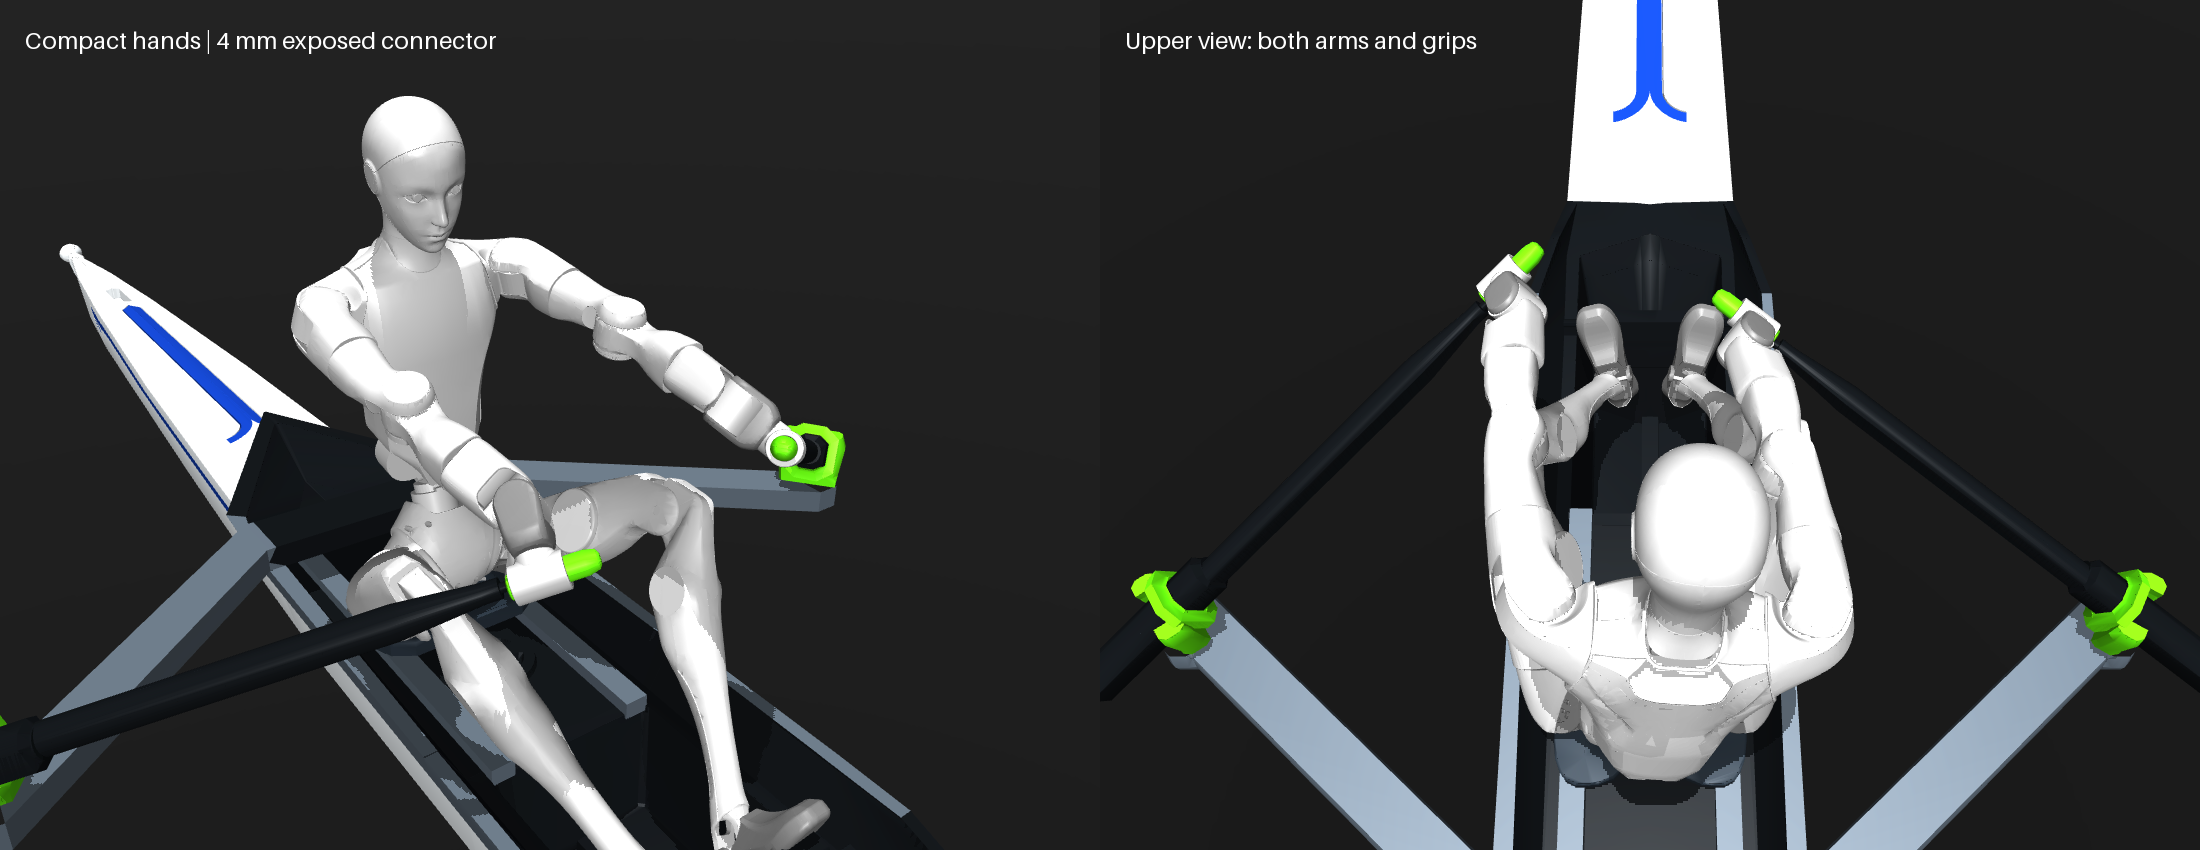
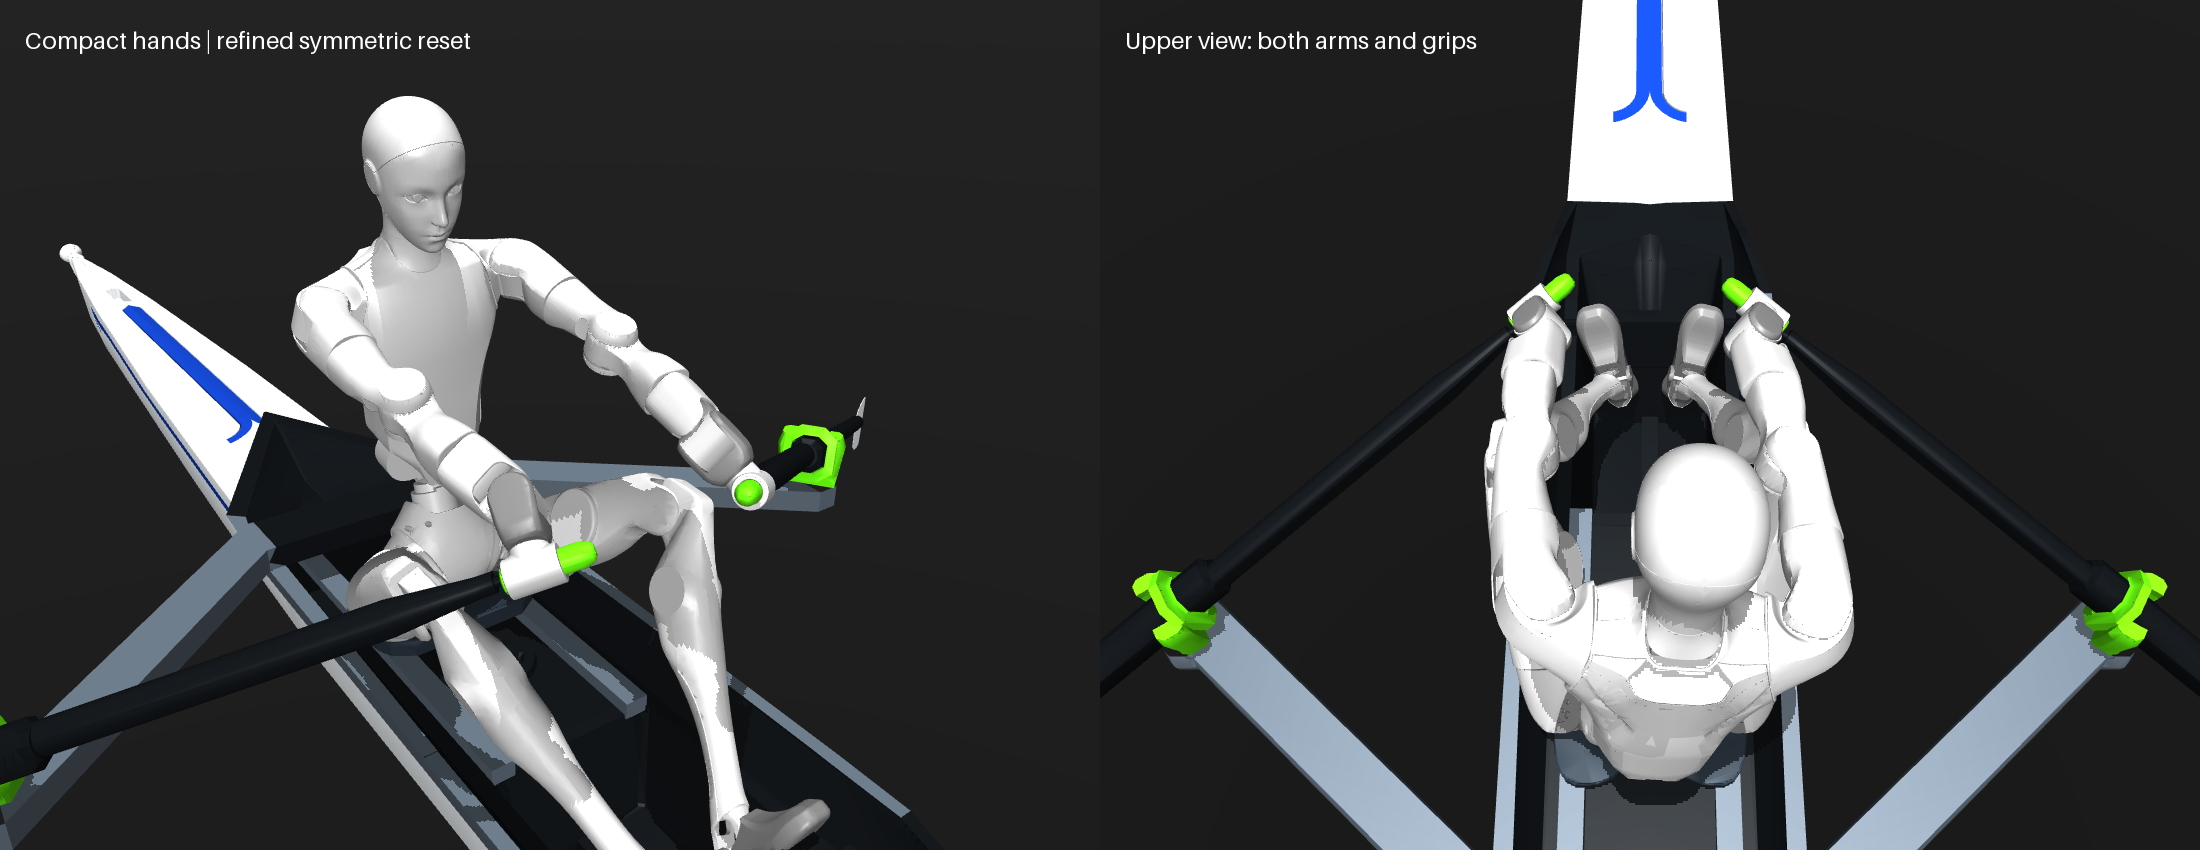
Start reference in drive, balance reset pose and extend PPO episodes

diff --git a/tests/test_rowing_mjlab.py b/tests/test_rowing_mjlab.py
@@ -30,6 +30,34 @@ def test_reference_start_and_complete_half_speed_cycle():
     torch.testing.assert_close(ref(torch.tensor([0.])),ref(torch.tensor([1.])))
 
 
+def test_reference_shared_drive_start_uses_only_sweep_and_is_wet():
+    import json
+    import trimesh
+    from rowing_mjlab.reference import DRIVE_START_PHASE
+    from hydrodynamics.models import wet_triangles,triangle_geometry
+    ref=OarReference('cpu')
+    m=mujoco.MjModel.from_xml_path(str(ROOT/'scene.xml'));d=mujoco.MjData(m)
+    names=[s+'_'+j for s in ('port','starboard') for j in ('sweep','elevation','feather')]
+    qa=[m.joint(n).qposadr[0] for n in names]
+    q=torch.tensor(m.qpos0[qa],dtype=torch.float32)
+    phase=ref.nearest(q)
+    assert DRIVE_START_PHASE[0]<=phase<=DRIVE_START_PHASE[1]
+    changed=q.clone();changed[[1,2,4,5]]+=10
+    torch.testing.assert_close(ref.nearest(changed),phase,rtol=0,atol=0)
+    grid=torch.arange(4096)/4096
+    valid=grid[(grid>=DRIVE_START_PHASE[0])&(grid<=DRIVE_START_PHASE[1])]
+    cost=(ref(valid)[:,[0,3]]-q[[0,3]]).square().mean(-1)
+    torch.testing.assert_close(phase,valid[cost.argmin()])
+    water=json.loads((ROOT/'data/rowing_reference_provenance.json').read_text())['water_level_m_at_repository_reset']
+    meshes=[trimesh.load_mesh(ROOT/f'boat_meshes/{s}_blade_3mm.stl') for s in ('port','starboard')]
+    for p in [float(phase),*np.linspace(*DRIVE_START_PHASE,31)]:
+        d.qpos[qa]=ref(torch.tensor(p)).numpy();mujoco.mj_kinematics(m,d)
+        for side,mesh in zip(('port','starboard'),meshes):
+            b=m.body(side+'_oar').id;tri=mesh.triangles@d.xmat[b].reshape(3,3).T+d.xpos[b]
+            fraction=triangle_geometry(wet_triangles(tri,water))[0].sum()/mesh.area
+            assert fraction>.70
+
+
 @pytest.fixture(scope='module')
 def hydro_comparison():
     m = mujoco.MjModel.from_xml_path(str(ROOT/'scene.xml'))
@@ -168,7 +196,8 @@ def test_mjlab_reset_head_constraints_termination_and_privileged_layout():
         torch.testing.assert_close(mdp.privileged(env),before)
         env.sim.data.qpos[0,3:7]=torch.tensor([np.cos(np.deg2rad(61)/2),np.sin(np.deg2rad(61)/2),0,0])
         assert mdp.capsized(env).tolist()==[True,False]
-        env.episode_length_buf[:]=1499
+        assert env.max_episode_length==2000
+        env.episode_length_buf[:]=env.max_episode_length-1
         env.step(torch.zeros(2,29))
         assert env.reset_time_outs.all()
         obs,_=env.reset(env_ids=torch.tensor([0]))
@@ -199,3 +228,8 @@ def test_compact_hand_pose_closure_axes_and_grip_placement():
             assert .23<m.body_mass[bid]<.25
             assert mujoco.mj_name2id(m,mujoco.mjtObj.mjOBJ_BODY,h+'_dex1_finger_link_1')==-1
         np.testing.assert_allclose(locations[0],locations[1],atol=1e-9)
+        q={n:np.rad2deg(m.qpos0[m.joint(n).qposadr[0]]) for n in
+           ('port_sweep','starboard_sweep','port_elevation','starboard_elevation','port_feather','starboard_feather')}
+        assert abs(q['port_sweep']+q['starboard_sweep'])<.7
+        assert abs(q['port_elevation']+q['starboard_elevation'])<.2
+        assert abs(q['port_feather']-q['starboard_feather'])<.1

diff --git a/tools/fit_compact_hand.py b/tools/fit_compact_hand.py
@@ -81,6 +81,14 @@ def solve(root):
         # Stay on the slightly flexed side of maximal extension; no large fold.
         lo[idx]=opt.x;hi[idx]=min(hi[idx],opt.x+np.deg2rad(5))
     x0=np.clip(x0,lo+1e-8,hi-1e-8)
+    previous=m.qpos0[qa].copy()
+    # This refinement is local: no arm or oar joint moves more than five degrees.
+    lo[:-1]=np.maximum(lo[:-1],previous-np.deg2rad(5))
+    hi[:-1]=np.minimum(hi[:-1],previous+np.deg2rad(5))
+    x0=np.clip(x0,lo+1e-8,hi-1e-8)
+    def asymmetry(x):
+        # Opposing hinge signs for sweep/elevation; equal feather coordinates.
+        return np.array([x[14]+x[17],x[15]+x[18],x[16]-x[19]])
     def constraints(x):
         forward(x);eq=[];axes=[];wrists=[]
         for b in bdata:
@@ -96,7 +104,9 @@ def solve(root):
     def objective(x):
         _,_,w=constraints(x)
         elbows=np.array([x[names.index(b['h']+'_elbow_joint')]-t for b,t in zip(bdata,targets)])
-        return float(10*w@w+20*elbows@elbows+.004*np.sum((x[:-1]-x0[:-1])**2)+.5*(x[-1]-.785)**2)
+        symmetry=asymmetry(x)
+        return float(10*w@w+20*elbows@elbows+200*symmetry@symmetry+
+                     np.sum((x[:-1]-previous)**2)+.5*(x[-1]-.785)**2)
     def residual(x):
         eq,ax,w=constraints(x)
         return np.r_[eq*100,np.minimum(ax,0)*300,w*2,(x[:-1]-x0[:-1])*.01]
@@ -118,6 +128,9 @@ def solve(root):
     forward(best.x)
     report=dict(grip_distance_from_oar_origin_m=float(best.x[-1]),objective=float(best.fun),
                 joint_angles_deg=dict(zip(names,np.rad2deg(best.x[:-1]).tolist())),hands={})
+    report['bilateral_mirror_error_before_deg']=np.rad2deg(asymmetry(previous)).tolist()
+    report['bilateral_mirror_error_after_deg']=np.rad2deg(asymmetry(best.x)).tolist()
+    report['max_joint_adjustment_deg']=float(np.rad2deg(abs(best.x[:-1]-previous)).max())
     for b,t in zip(bdata,targets):
         rh=d.xmat[b['hand']].reshape(3,3);ro=d.xmat[b['oar']].reshape(3,3)
         center=d.xpos[b['hand']]+rh@np.array([.029,0,0]);target=d.xpos[b['oar']]+ro@np.array([0,b['sign']*best.x[-1],0])

diff --git a/rowing_mjlab/config.py b/rowing_mjlab/config.py
@@ -16,7 +16,7 @@ from .networks import SEQUENCE_LENGTH
 
 def env_cfg(num_envs=2048,play=False):
     return ManagerBasedRlEnvCfg(
-        decimation=10, episode_length_s=30.0,
+        decimation=10, episode_length_s=40.0,
         scene=SceneCfg(num_envs=num_envs,env_spacing=0.0,entities={'rowing':entity_cfg()},
             sensors=(ContactSensorCfg(name='forbidden_contact',
                 primary=ContactMatch(mode='geom',pattern='h2_collision_.*',entity='rowing'),
@@ -60,6 +60,7 @@ def env_cfg(num_envs=2048,play=False):
 
 def rl_cfg(num_envs=2048):
     from mjlab.rl import RslRlModelCfg, RslRlOnPolicyRunnerCfg, RslRlPpoAlgorithmCfg
+    rollout_steps = 32  # 0.64 s at 50 Hz; 2000/32 = 62.5 rollout blocks per episode.
     model = dict(class_name='rowing_mjlab.networks:TemporalModel',hidden_dims=(512,256,128),
                  activation='elu',obs_normalization=True)
     return RslRlOnPolicyRunnerCfg(
@@ -67,11 +68,11 @@ def rl_cfg(num_envs=2048):
                            'init_std':0.3,'std_type':'scalar'}),
         critic=RslRlModelCfg(**model),
         algorithm=RslRlPpoAlgorithmCfg(class_name='rowing_mjlab.storage:HistoryPPO',
-            num_learning_epochs=4,num_mini_batches=max(1,num_envs*24//512),
+            num_learning_epochs=4,num_mini_batches=max(1,num_envs*rollout_steps//512),
             learning_rate=3e-4,schedule='adaptive',gamma=0.99,lam=0.95,
             entropy_coef=0.005,desired_kl=0.01,max_grad_norm=1.0,
             value_loss_coef=1.0,use_clipped_value_loss=True,clip_param=0.2),
-        experiment_name='h2_rowing_imitation',num_steps_per_env=24,
+        experiment_name='h2_rowing_imitation',num_steps_per_env=rollout_steps,
         max_iterations=10000,save_interval=100,
         obs_groups={'actor':['actor'],'critic':['actor','privileged']},
         logger='tensorboard',clip_actions=1.0,

diff --git a/rowing_mjlab/reference.py b/rowing_mjlab/reference.py
@@ -6,6 +6,10 @@ from hydrodynamics.models import ROOT
 
 PERIOD = 60.0/26.0
 SIGMA_DEG = (10,4,15,10,4,15)
+# Interior of the digitized drive, excluding catch/extraction transitions.
+# Verified at the repository waterline: both blades >70% wetted surface area
+# over this interval; sweep advances and the blade remains approximately square.
+DRIVE_START_PHASE = (0.05, 0.35)
 
 
 class OarReference:
@@ -28,9 +32,12 @@ class OarReference:
         return ((c[0]*delta+c[1])*delta+c[2])*delta+c[3]
 
     def nearest(self, angles):
-        # Exact saved pose is common across all worlds; compute once at startup.
+        """One shared bilateral phase, nearest in sweep only, inside drive."""
         grid = torch.arange(4096,device=angles.device,dtype=torch.float32)/4096
-        cost = ((self(grid)-angles)/self.sigma).square().mean(-1)
+        sweep = torch.tensor([0,3],device=angles.device)
+        cost = (self(grid).index_select(-1,sweep)-angles.index_select(-1,sweep)).square().mean(-1)
+        valid = (grid >= DRIVE_START_PHASE[0]) & (grid <= DRIVE_START_PHASE[1])
+        cost = cost.masked_fill(~valid,float('inf'))
         return grid[cost.argmin()]
 
     def target(self, elapsed, phase0, reset_angles):

diff --git a/TRAINING_MJLAB.md b/TRAINING_MJLAB.md
@@ -37,7 +37,7 @@ Warp 显存不在 Torch 统计里，需要同时观察 GPU 总显存。编译耗
 ## Viser 策略回放
 
 回放只需单个进程，不使用 torchrun。默认一个环境、确定性 Actor、关闭观测噪声，
-保留水动力、125 帧历史、reset、第一圈半速、30 秒截断与翻船终止。
+保留水动力、125 帧历史、reset、第一圈半速、40 秒截断与翻船终止。
 
 ```bash
 CUDA_VISIBLE_DEVICES=0 python3 -m rowing_mjlab.play \
@@ -88,7 +88,9 @@ H2 碰撞采用现有 CAD 的凸网格；桨杆采用胶囊体，桨柄与其网
 数据来自 RowIMU 单桨曲线数字化、镜像为双桨、映射到当前 CAD，并包含桨轴净向下 6°偏移。
 出处和源 PDF SHA256 见 `data/rowing_reference_provenance.json`。它不是实测同步双桨数据。
 
-reset 后从与仓库六桨角归一化距离最小的公共相位开始，左右桨不能独立选相位。
+reset 后仅在 drive 内段（相位 0.05–0.35）寻找与仓库左右扫桨角均方误差最小的公共相位；
+升降与翻桨不参与起点选择，左右桨不能独立选相位。此区间在仓库静止船姿和水位下，
+两侧桨叶湿表面积比例均大于 70%；运行中船体运动仍可能改变实际入水状态。
 参考用周期三次样条，在 GPU 上查询。T=60/26≈2.308 s，第一完整圈用时 2T，
 后续每圈用时 T。前 0.3 s 用五次平滑函数从 reset 桨角接入；实际物理姿态不被强行修改。
 相位计时从任意初相位累计一整圈，不在第一次跨过 0/1 边界时提前结束半速阶段。
@@ -138,7 +140,7 @@ r = 1.0 * 六桨角位置跟踪
 
 扫桨/升降/翻桨跟踪权重 0.40/0.35/0.25，容差 10°/4°/15°，左右桨误差先平方平均。
 无船速或桨角速度跟踪、无脚部离开支撑惩罚。已移除关节速度惩罚，保留 action_rate 平滑项。
-船体当前滚转绝对值 >60°终止；30 s 为时间截断；非有限状态另行终止。
+船体当前滚转绝对值 >60°终止；40 s（50 Hz 下 2000 个控制步）为时间截断；非有限状态另行终止。
 记录六桨角 RMSE 与力矩饱和比例，奖励高不代表力矩可实现或水动力已验证。
 
 ## GPU 实现与适用边界
@@ -156,8 +158,11 @@ CPU 几何传输或全局原子累加。几何及 PCHIP 系数仅启动时在 CP
 历史存储采用一次 125 帧前缀 + 每步新观测，PPO minibatch 用索引重建 126 帧窗口。
 跨 reset 的索引钳制到新回合首帧，跨 rollout 复制实际历史前缀，不混入旧回合。
 不缓存用于梯度更新的旧 latent，每次 PPO 更新重新编码原始观测。
-24 步 rollout 时，相比重复存储每步完整窗口，Actor 观测存储约减少 17 倍
-（包含当前帧的紧凑副本，不含网络激活、环境历史和优化器）。
+32 步 rollout 时，历史窗口仍按需重建，不逐步重复存储完整窗口。
+PPO 每次采样 32 步（0.64 s），每回合 2000 步；mini-batch 数量为 max(1, num_envs × 32 // 512)。
+每次更新仍进行 4 个 epoch，gamma=0.99、GAE lambda=0.95、学习率初值 3e-4。
+控制周期没有改变，因此保留折扣与 GAE 的物理时间尺度。相同 iterations 下，采样量比原 24 步配置增加 1/3；
+若保持原总采样预算，iterations 乘 0.75（例如 30000 改为 22500）。
 
 PyTorch 编译默认仅在 CUDA 开启；PPO minibatch 目标约 512 样本，避免 TCN 反传峰值显存。
 批量 reset、接触管理和求解器仍使用 mjlab 的实现，不声称完全消除了主机同步。

diff --git a/designs/compact_hand/README.md b/designs/compact_hand/README.md
@@ -39,8 +39,10 @@
 
 ## 装配姿态
 
-`pose_baseline.json` 保存用户指定的肘轴方向约束基准；`pose_report.json` 保存新关节角和误差。左右握持位置均为桨局部轴向绝对坐标 0.785 m，套筒覆盖 0.750–0.820 m，位于桨柄实际区间 0.74425–0.86216 m 内。每侧肘轴方向变化 4.95°，小于 5°。相对最大伸展位置的肘关节弯曲约为左 3.72°、右 5.00°。
+`pose_baseline.json` 保存用户指定的肘轴方向约束基准；`pose_report.json` 保存新关节角和误差。左右握持位置均为桨局部轴向绝对坐标 0.785 m，套筒覆盖 0.750–0.820 m，位于桨柄实际区间 0.74425–0.86216 m 内。每侧肘轴方向变化 4.95°，小于 5°。相对最大伸展位置的肘关节弯曲约为左 2.81°、右 5.00°。
 
-最大伸展是肩部末级锚点—肘锚点—腕部首级锚点连线夹角最小时的肘关节位置；因连杆偏置，最小几何夹角约 18.98°，并非肘屈曲角。腕部纵轴相对前臂连线仍偏转约左 18.65°、右 27.68°，是在握持闭合、肘轴限幅及现有固定安装方向下的数值优化结果，不保证全局最优。
+最大伸展是肩部末级锚点—肘锚点—腕部首级锚点连线夹角最小时的肘关节位置；因连杆偏置，最小几何夹角约 18.98°，并非肘屈曲角。腕部纵轴相对前臂连线仍偏转约左 19.51°、右 27.85°，是在握持闭合、肘轴限幅及现有固定安装方向下的数值优化结果，不保证全局最优。
 
 使用 `python tools/fit_compact_hand.py --apply` 重新求解并写入两个 XML，不带 `--apply` 只生成求解报告。单手质量约 0.2402 kg，质心和完整惯量来自封闭几何、假设均匀铝材密度 2700 kg/m³。`installed_pose.png` 为实际 MuJoCo 装配渲染。
+
+本次 reset 对称化将各臂/桨关节调整限制在 5° 内，扫桨/升降/翻桨镜像角差从 4.45°/6.07°/4.08° 降为 0.61°/0.10°/0.01°。`reference_start.json` 记录 drive 内段按左右扫桨共同匹配的单一起始相位。左右关节坐标的镜像符号不同，同相位不等于六个数值逐项相等。

diff --git a/README.md b/README.md
@@ -49,7 +49,7 @@ python -m mujoco.viewer --mjcf=preview.xml
 
 双手已替换为内径 34 mm、外径 50 mm、长 70 mm 的圆角套筒，通过直径 50 mm、外露长度 4 mm 的短柱连接手腕，交接处 R5。设计文件、安装参数与完整关节角见 [compact_hand](designs/compact_hand/README.md) 和 [pose_report.json](designs/compact_hand/pose_report.json)。两侧握持中心距各自桨坐标原点均为 0.785 m，整个套筒位于实际桨柄段内。
 
-双臂与双桨已联合求解。相对记录的旧姿态，左右肘关节世界轴线方向变化均为 4.95°；肘关节相对几何最大伸展位的弯曲分别为 3.72°、5.00°。连杆偏置使上臂和小臂锚点连线仍存在约 19° 的最小夹角，不应将其误读为同等肘屈曲量。双手与桨、双脚与船体使用六维 weld，统一使用 `solref=".004 1"` 与 `solimp=".99 .999 .001 .5 2"`。
+双臂与双桨已联合求解。相对记录的旧姿态，左右肘关节世界轴线方向变化均为 4.95°；肘关节相对几何最大伸展位的弯曲分别为 2.81°、5.00°。连杆偏置使上臂和小臂锚点连线仍存在约 19° 的最小夹角，不应将其误读为同等肘屈曲量。双手与桨、双脚与船体使用六维 weld，统一使用 `solref=".004 1"` 与 `solimp=".99 .999 .001 .5 2"`。
 
 新手按均匀铝材密度 2700 kg/m³ 计算质量与惯量，单手约 0.240 kg，属于材料假设。双臂、双桨新初始姿态已写入两个 XML；关节坐标映射经过重参数化一致性检查，原双桨参考轨迹无需重新数字化。桨叶厚度仍为 3 mm。
 
